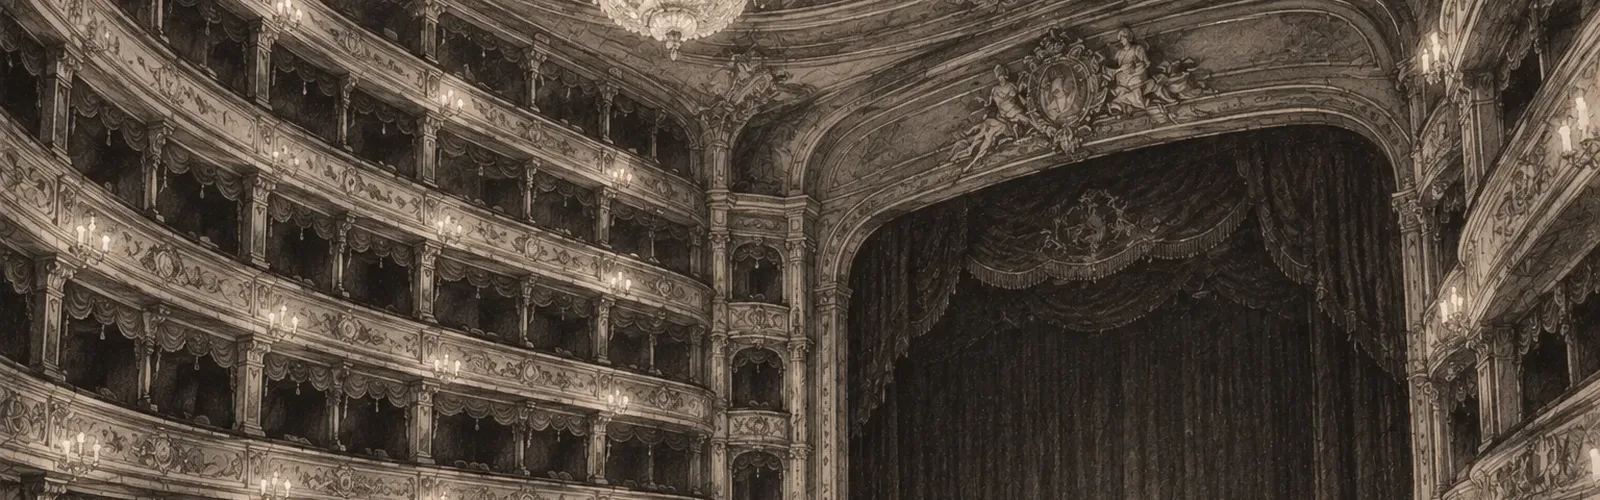
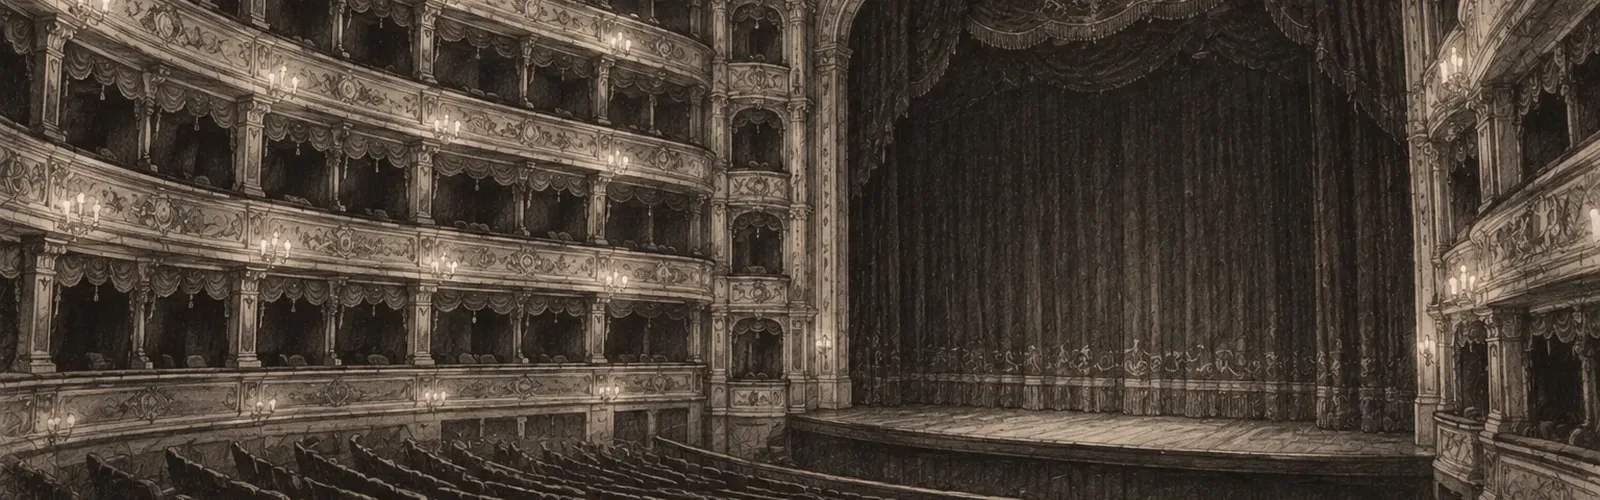
content: Almacenamiento también en SOR, ilustración de Minerva y cabecera de la Ópera centrada en el escenario
Corrige además las fichas de las imágenes de la Ópera, que tenían comillas escapadas.

diff --git a/contenido/piezas/iso/almacenamiento/minerva.md b/contenido/piezas/iso/almacenamiento/minerva.md
@@ -3,6 +3,8 @@ titulo: "Minerva, la ciudad del conocimiento"
 licencia: CC-BY-NC-SA-4.0
 tipo: caso
 horas: 12
+portada: ./img/minerva-portada.webp
+cabecera: ./img/minerva-cabecera.webp
 ---
 
 :::aviso[Antes de empezar]
